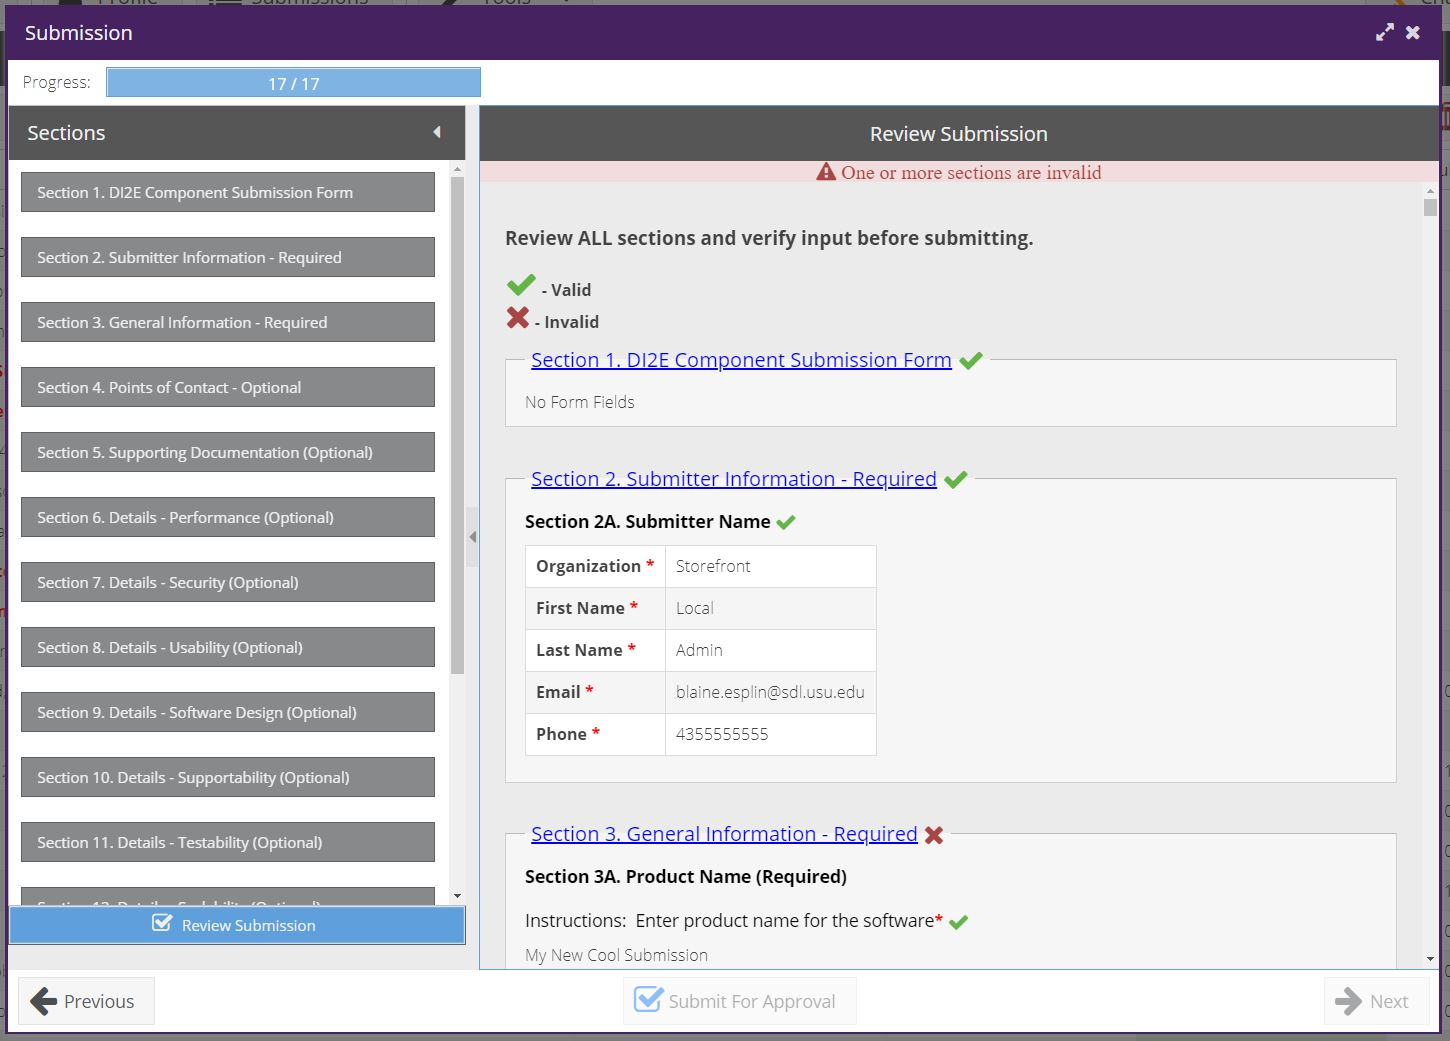
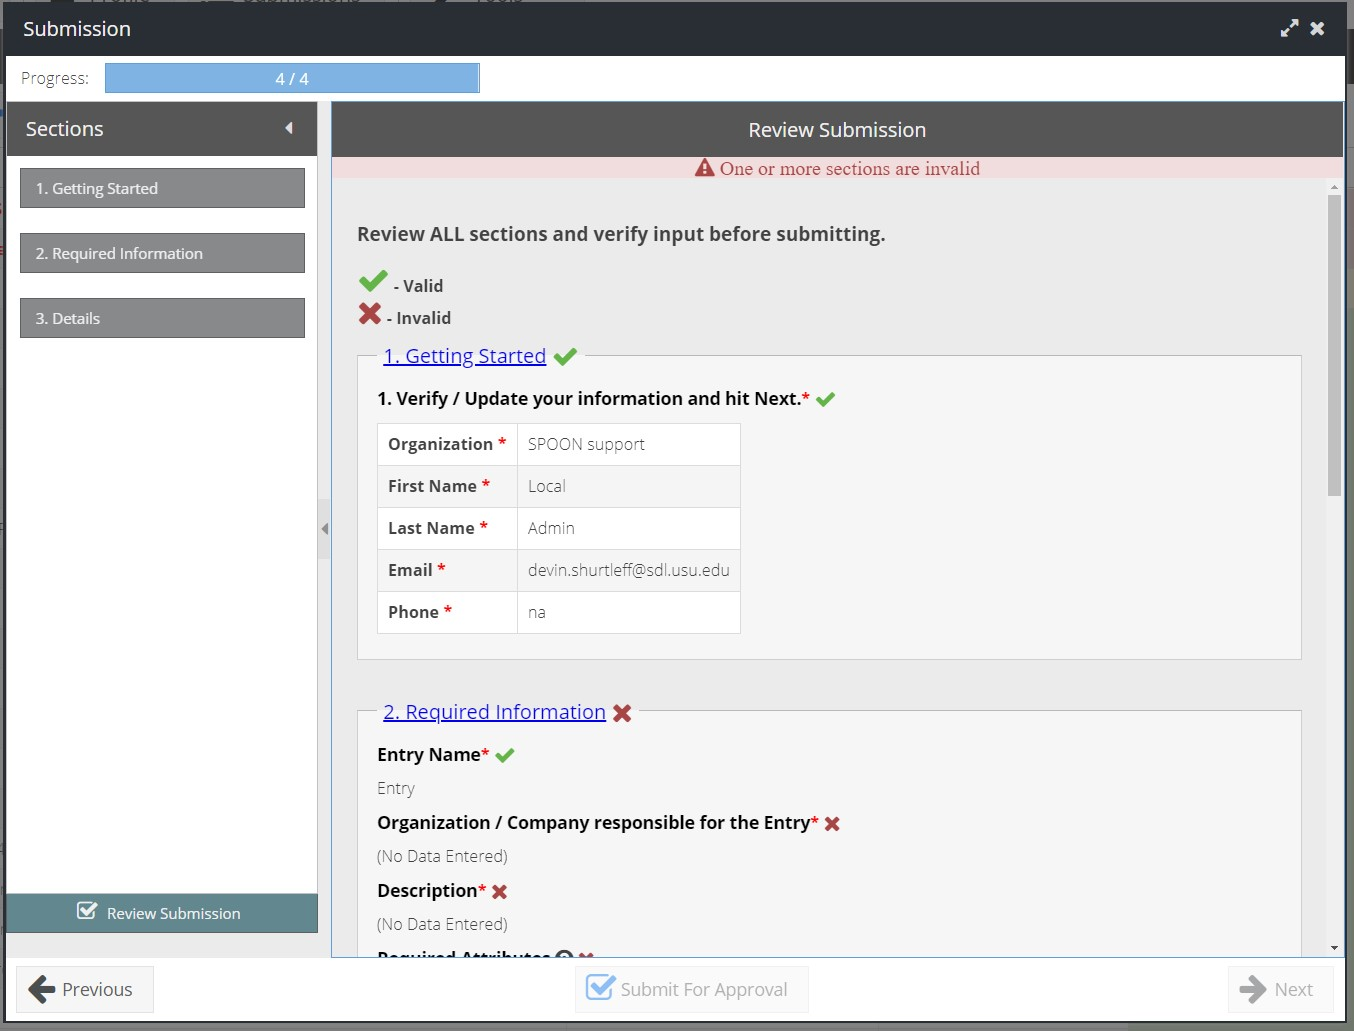
SPOON-931 Updated the screenshots for SPOON, old ones were copied over from DI2E/Storefront

Changed region(s): [[0.0, 0.0, 1.0, 0.9932]]

diff --git a/Hugo-StaticGen-Docs/content/applicationadmin/Workplans.md b/Hugo-StaticGen-Docs/content/applicationadmin/Workplans.md
@@ -10,7 +10,7 @@ weight = 2
 ### 1.1 Create the Workplan
 
 1. Navigate to __Admin Tools__ if you are not already there (click on your username in the upper-right, then Admin Tools)
-2. Select __Data Management &rarr; Workplan Progress__
+2. Select __Data Management &rarr; Workplan Management__
 3. Click __+Add Workplan__ ![Workplan Creation Tool](/images/AppAdmin/AddWorkplan.JPG)
 4. First fill in the Workplan Config Section
   * Workplan Name: Unique Workplan name
